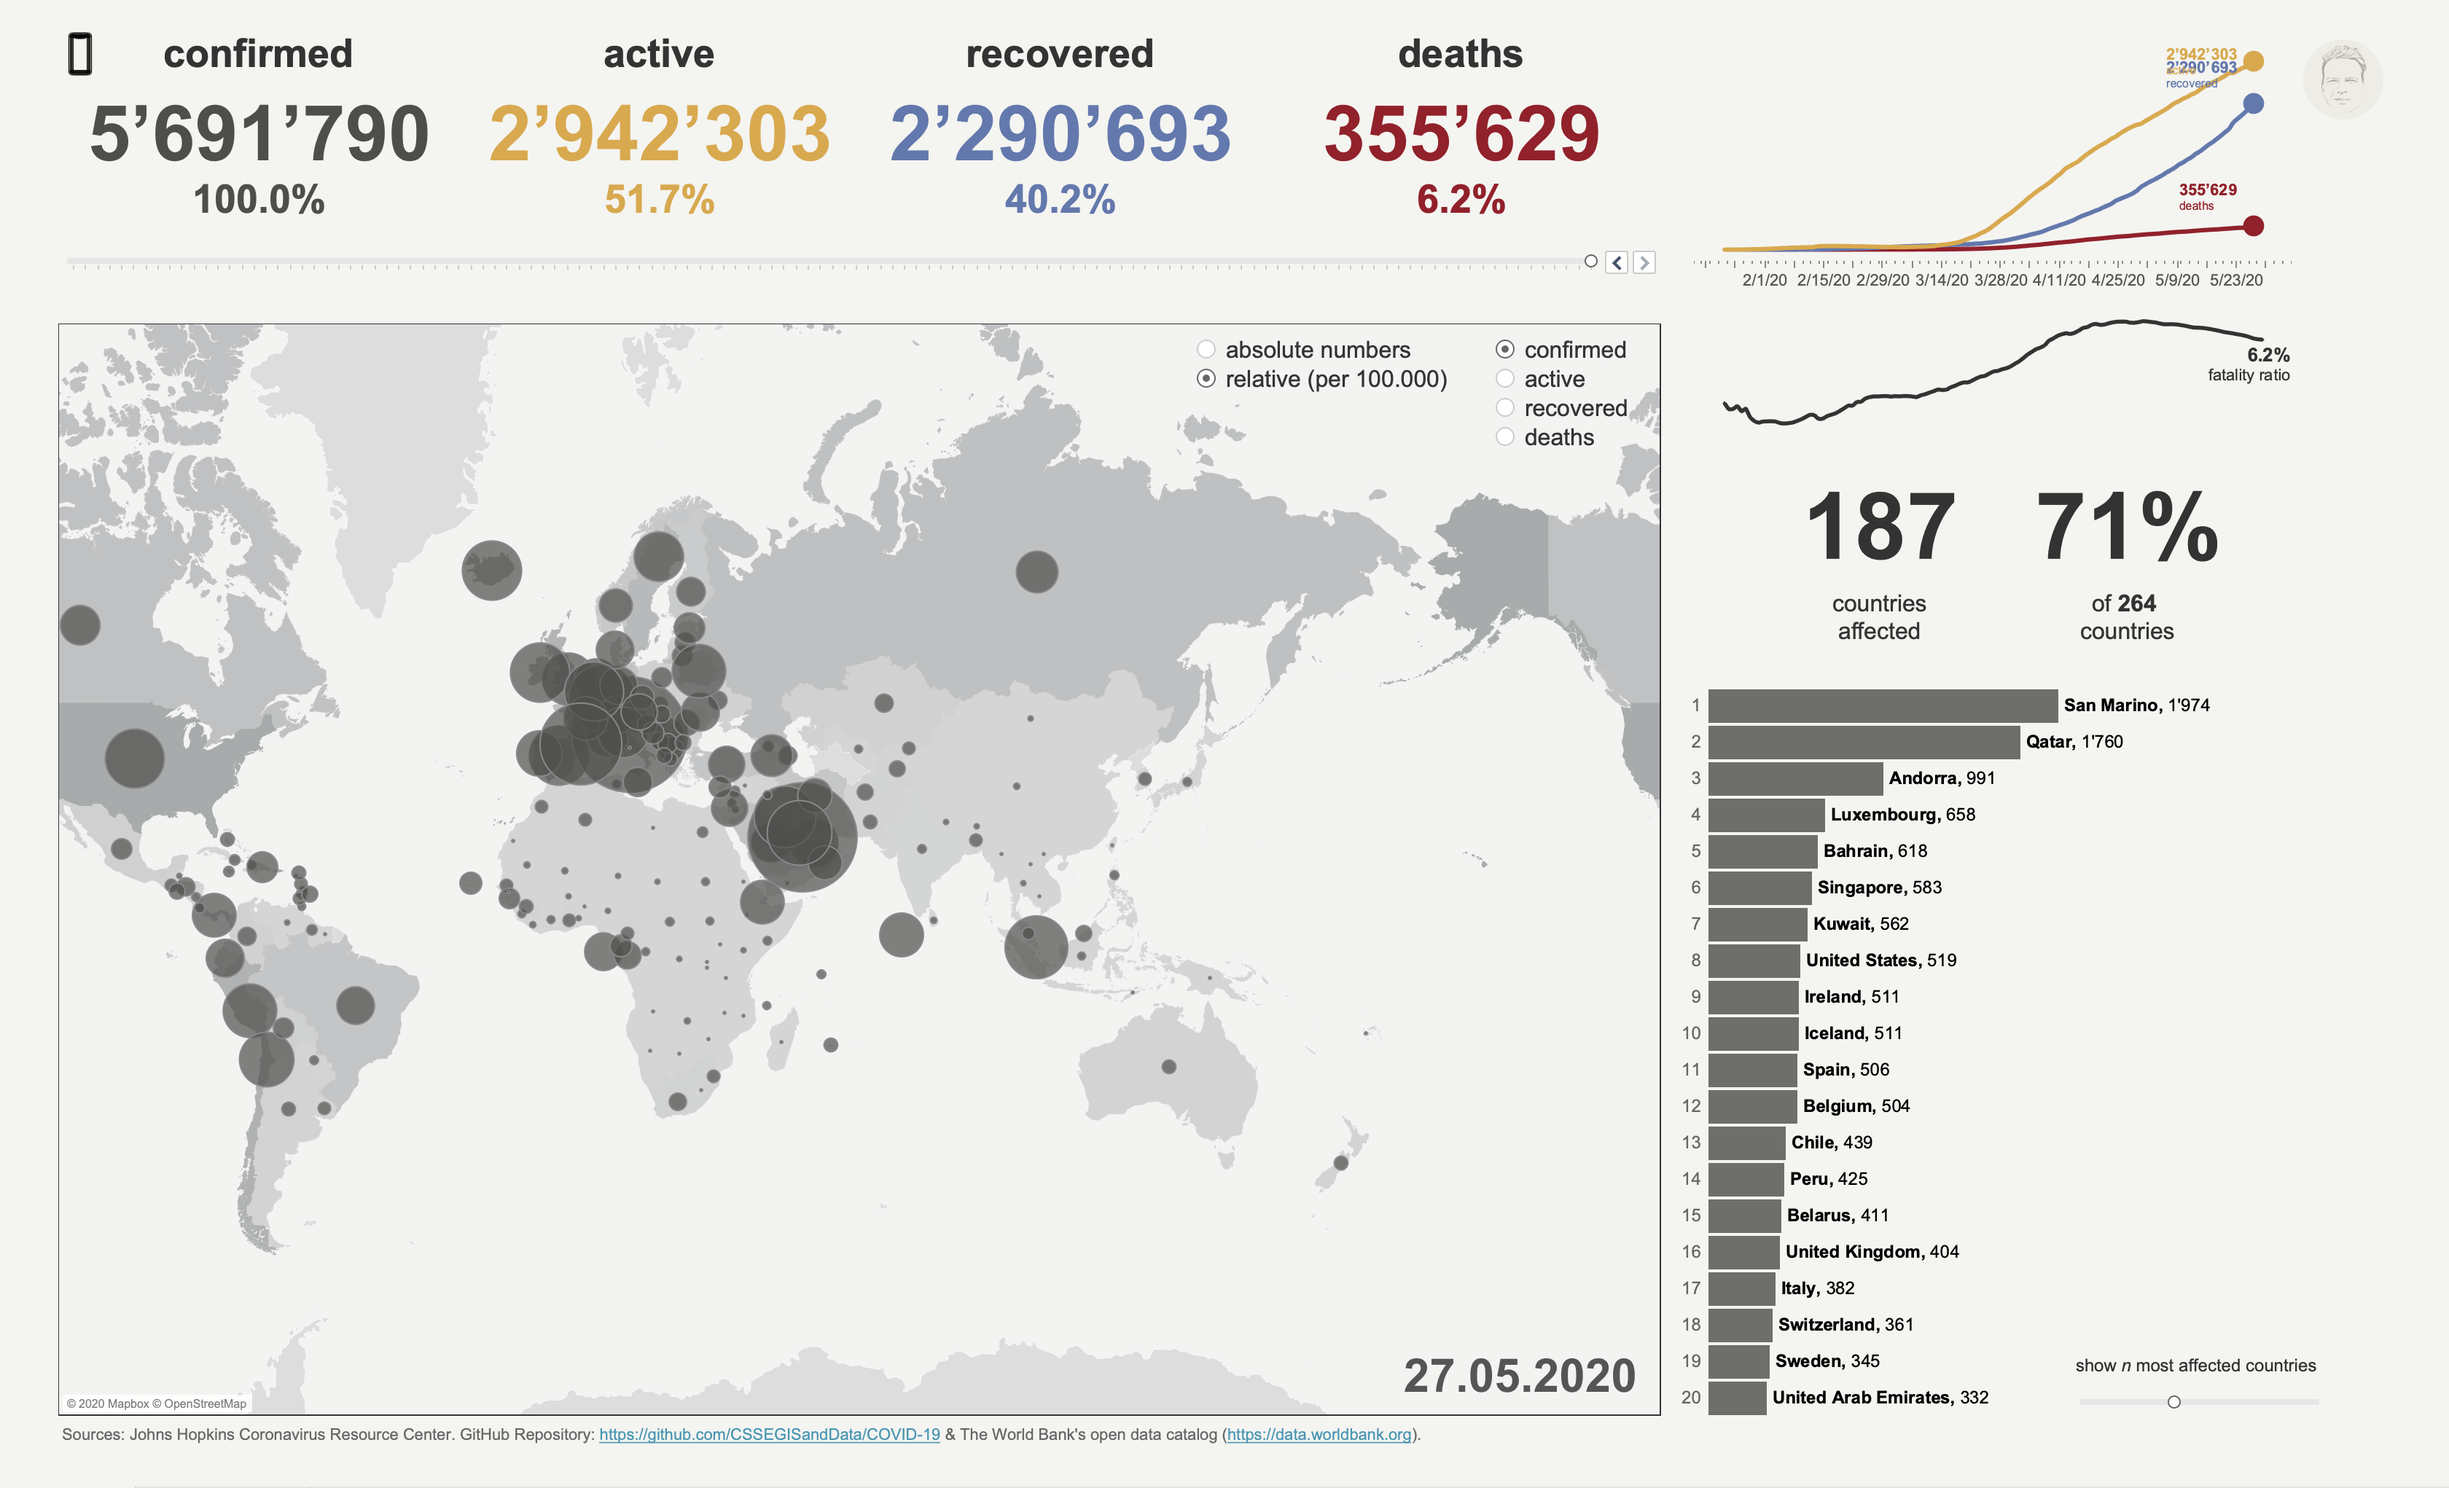
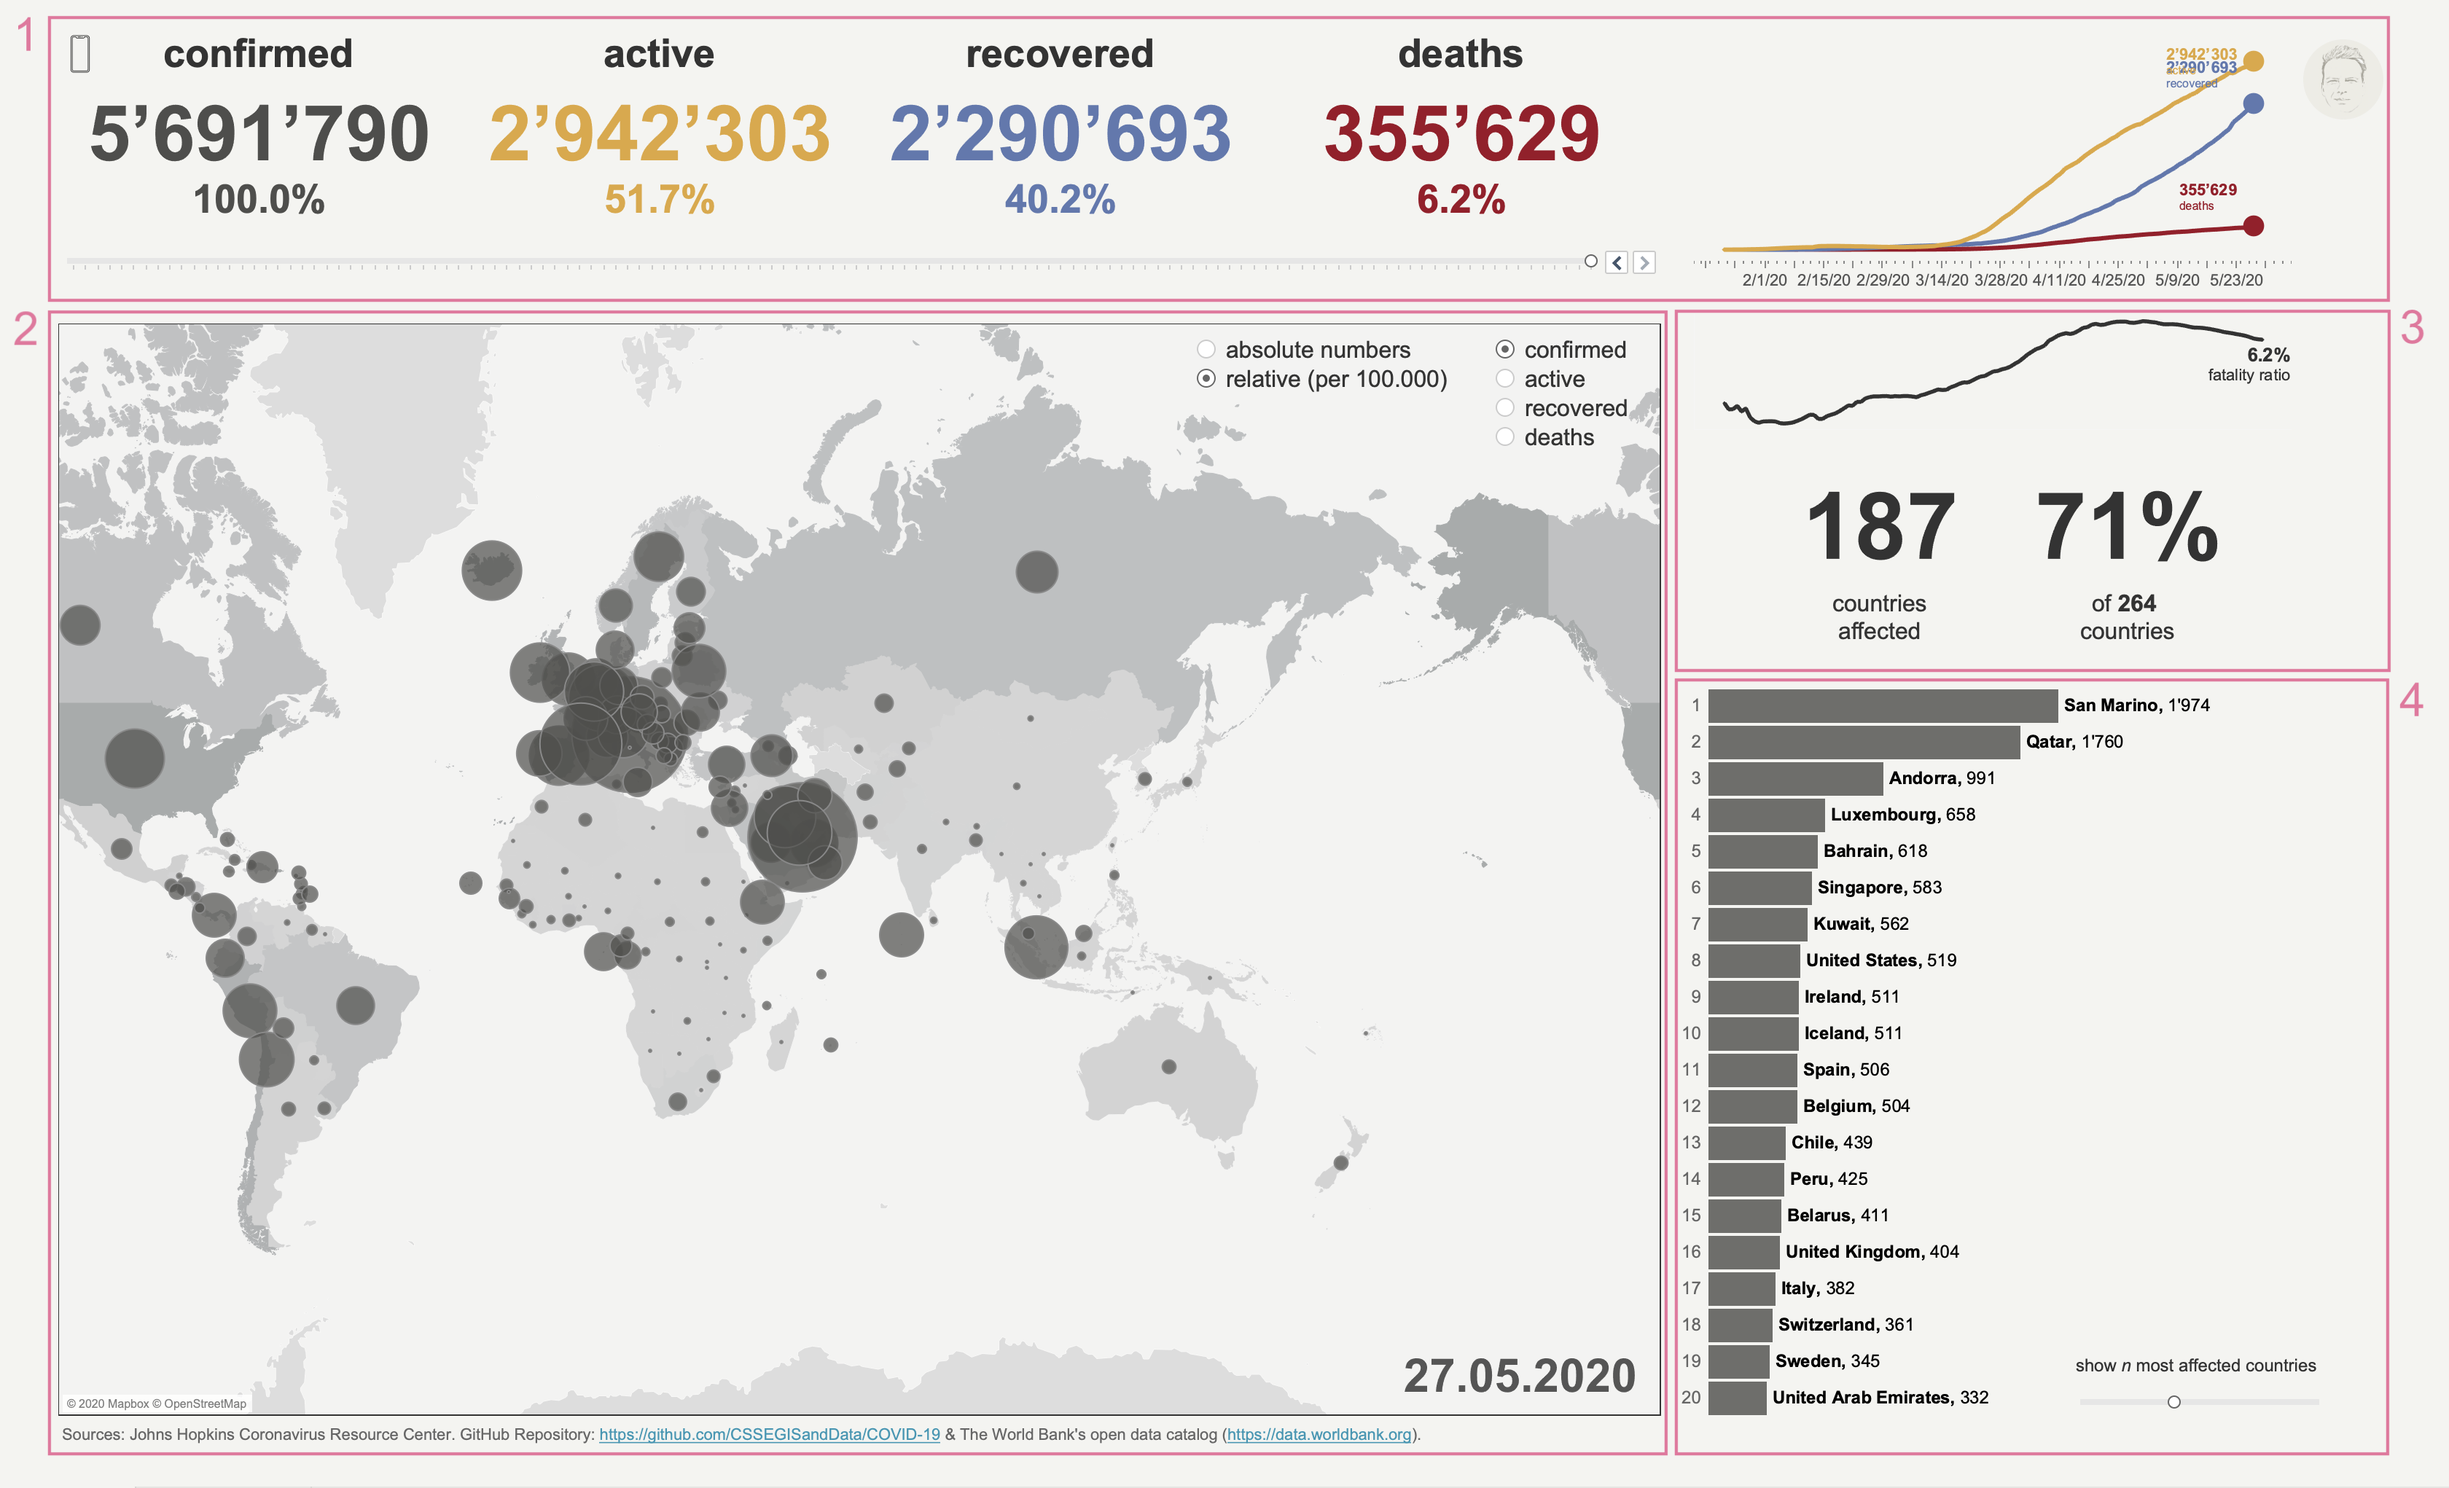
Updated text and figures

diff --git a/CoViD-19_global_dashboard.md b/CoViD-19_global_dashboard.md
@@ -88,15 +88,15 @@ head(dd)
 And a brief graphical check using data for Germany:
 ```
 ggplotly(dd %>% 
-                   filter(., country_region == "Germany") %>% 
-                   ggplot(aes(x = date, y = cases, colour = status)) +
-                   geom_line() +
-                   labs(title = "CoViD-19 cases for Germany") +
-                   xlab("") +
-                   ylab("") +
-                   scale_colour_manual(values = c("#D8A94F", "#4E4E4C", "#A44A51", "#6378AC")) +
-                   theme_minimal() +
-                   theme(legend.title = element_blank()))
+	filter(., country_region == "Germany") %>% 
+	ggplot(aes(x = date, y = cases, colour = status)) +
+	geom_line() +
+	labs(title = "CoViD-19 cases for Germany") +
+	xlab("") +
+	ylab("") +
+	scale_colour_manual(values = c("#D8A94F", "#4E4E4C", "#A44A51", "#6378AC")) +
+	theme_minimal() +
+	theme(legend.title = element_blank()))
 ```
 ![CoViD-19_time-series_plotly.png]({{site.baseurl}}/img/CoViD-19_time-series_plotly.png)
 
@@ -107,9 +107,9 @@ Finally, I export the the data to a .csv file on my computer. Alternatively, one
 # Export to .csv file.
 write.csv(dd, "user_path/covid_time_series.csv")
 ```
-
-
-
+ 
+ 
+ 
 ## Designing the dashboard
 
 The unbiased and informative dashboard is **designed as a tool**. It is not an infographic. Hence, it looks simple on a first glance, but allows to go deeper by making extensive use tooltips. Further, it uses simple graphics that are easy to understand. I do not want viewers being busy figuring out how to read a sunburst chart to pull out the information she/he is looking for. Rather, it should be possible to quickly answer questions like:
@@ -119,17 +119,20 @@ The unbiased and informative dashboard is **designed as a tool**. It is not an i
 - How are numbers developing in Brazil? What's the global trend?
 - How are numbers (relatively) changing compared to the previous day?
 
-The dashboard consists of mainly four parts: 
+The dashboard consists of mainly five parts: 
 
-1. The **upper panel** includes global numbers for confirmed, active and recovered cases as well as fatalities. Moreover, a line chart allows for a quick overview about cumulated cases. The date slider allows to select a specific date of interest.
-2. The **map** as the central place to identify which parts of the world or countries are affected the most. Also, the map provides details for each country allowing fast comparisons. 
-3. A **small side panel** showing the number of countries affected as well as the course of the case fatality ratio (number of fatalities relative to the number of confirmed cases).
-4. A **bar chart** showing countries ranked according to the selected case type.
+1. The **upper panel** (1) includes global numbers for confirmed, active and recovered cases as well as fatalities. Moreover, a line chart allows for a quick overview about cumulated cases. The date slider allows to select a specific date of interest.
+2. The **map** (2) as the central place to identify which parts of the world or countries are affected the most. Also, the map provides details for each country allowing fast comparisons. 
+3. A **small side panel** (3) showing the number of countries affected as well as the course of the case fatality ratio (number of fatalities relative to the number of confirmed cases).
+4. A **bar chart** (4) showing countries ranked according to the selected case type.
+5. A **supplementary dashboard** providing key indicators for a selected country. One is forwarded to this dashboard when clicking on a country, either on the map or in the bar chart.
 
 ![CoViD-19_relative_confirmed.png]({{site.baseurl}}/img/CoViD-19_relative_confirmed.png)
+![CoViD-19_relative_confirmed.png]({{site.baseurl}}/img/CoViD-19_supplementary-info.png)
 
 Let us have a look at the different parts.
 
 
 ### Upper panel
 
+The four key numbers show global case numbers. By hovering over a number the viewer can see the the total numbers over time (top), the daily change in numbers (middle) as well as the relative change compared to the previous day.
